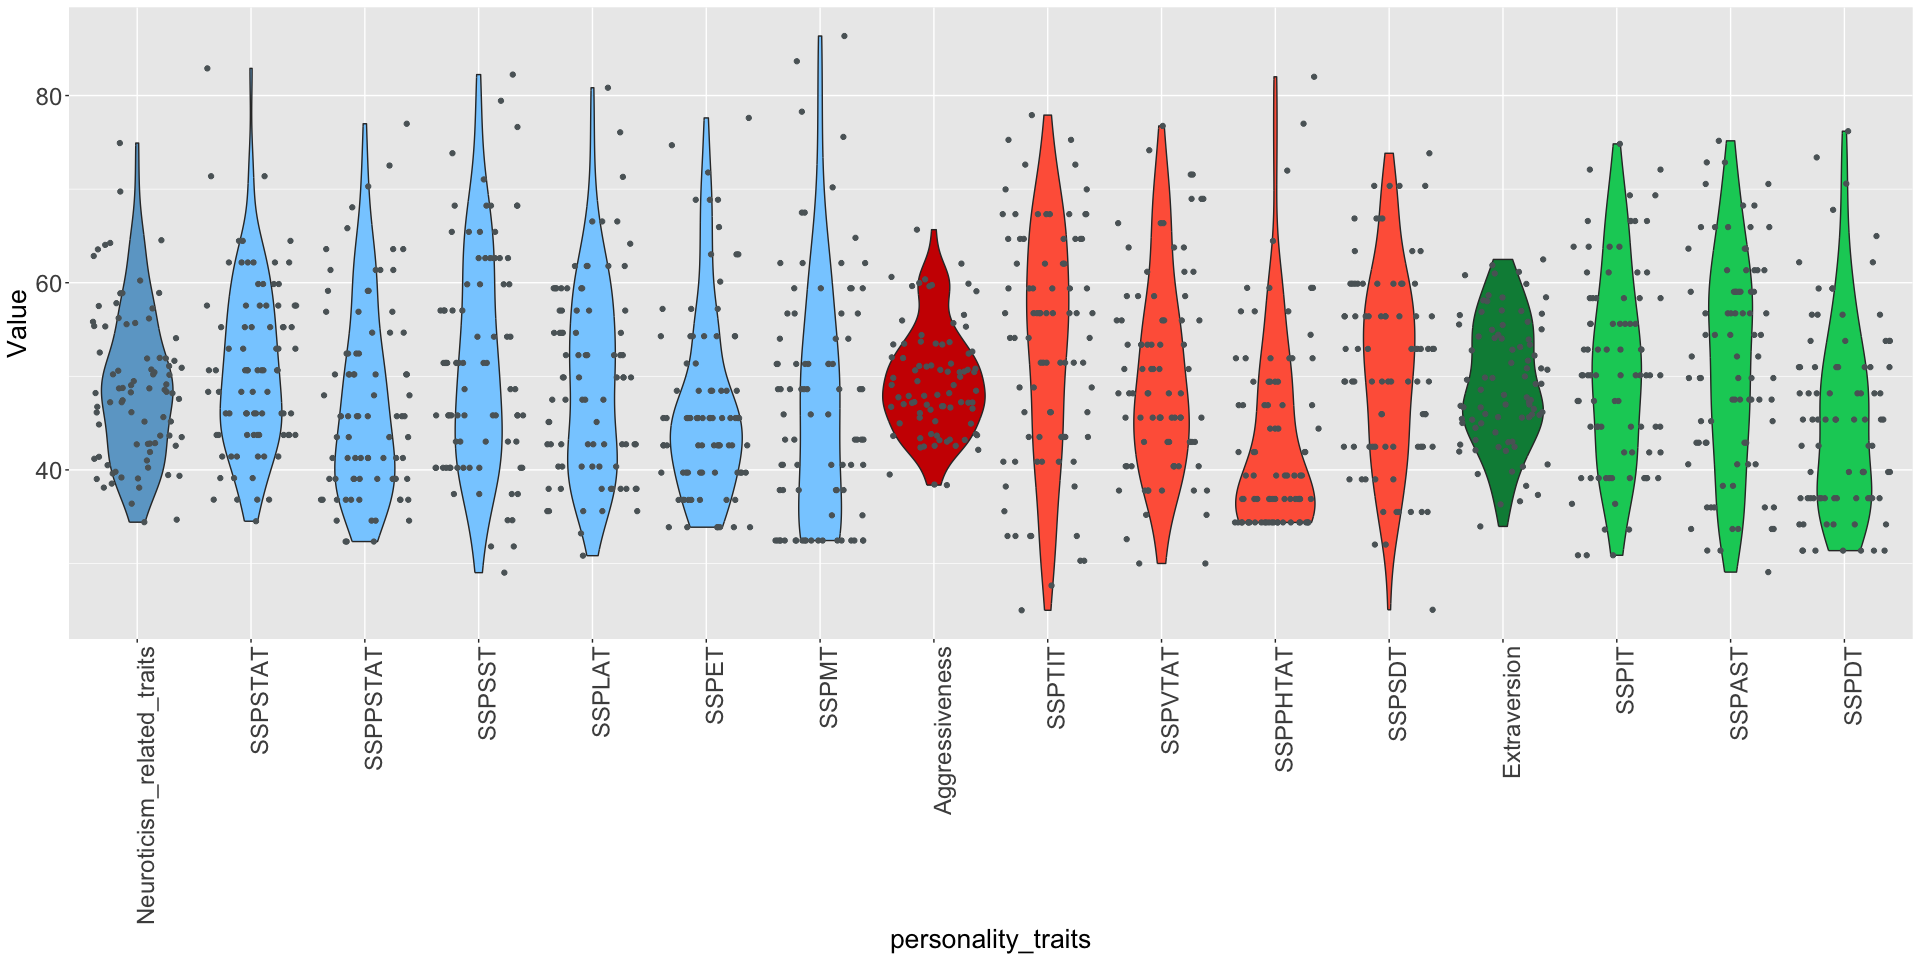
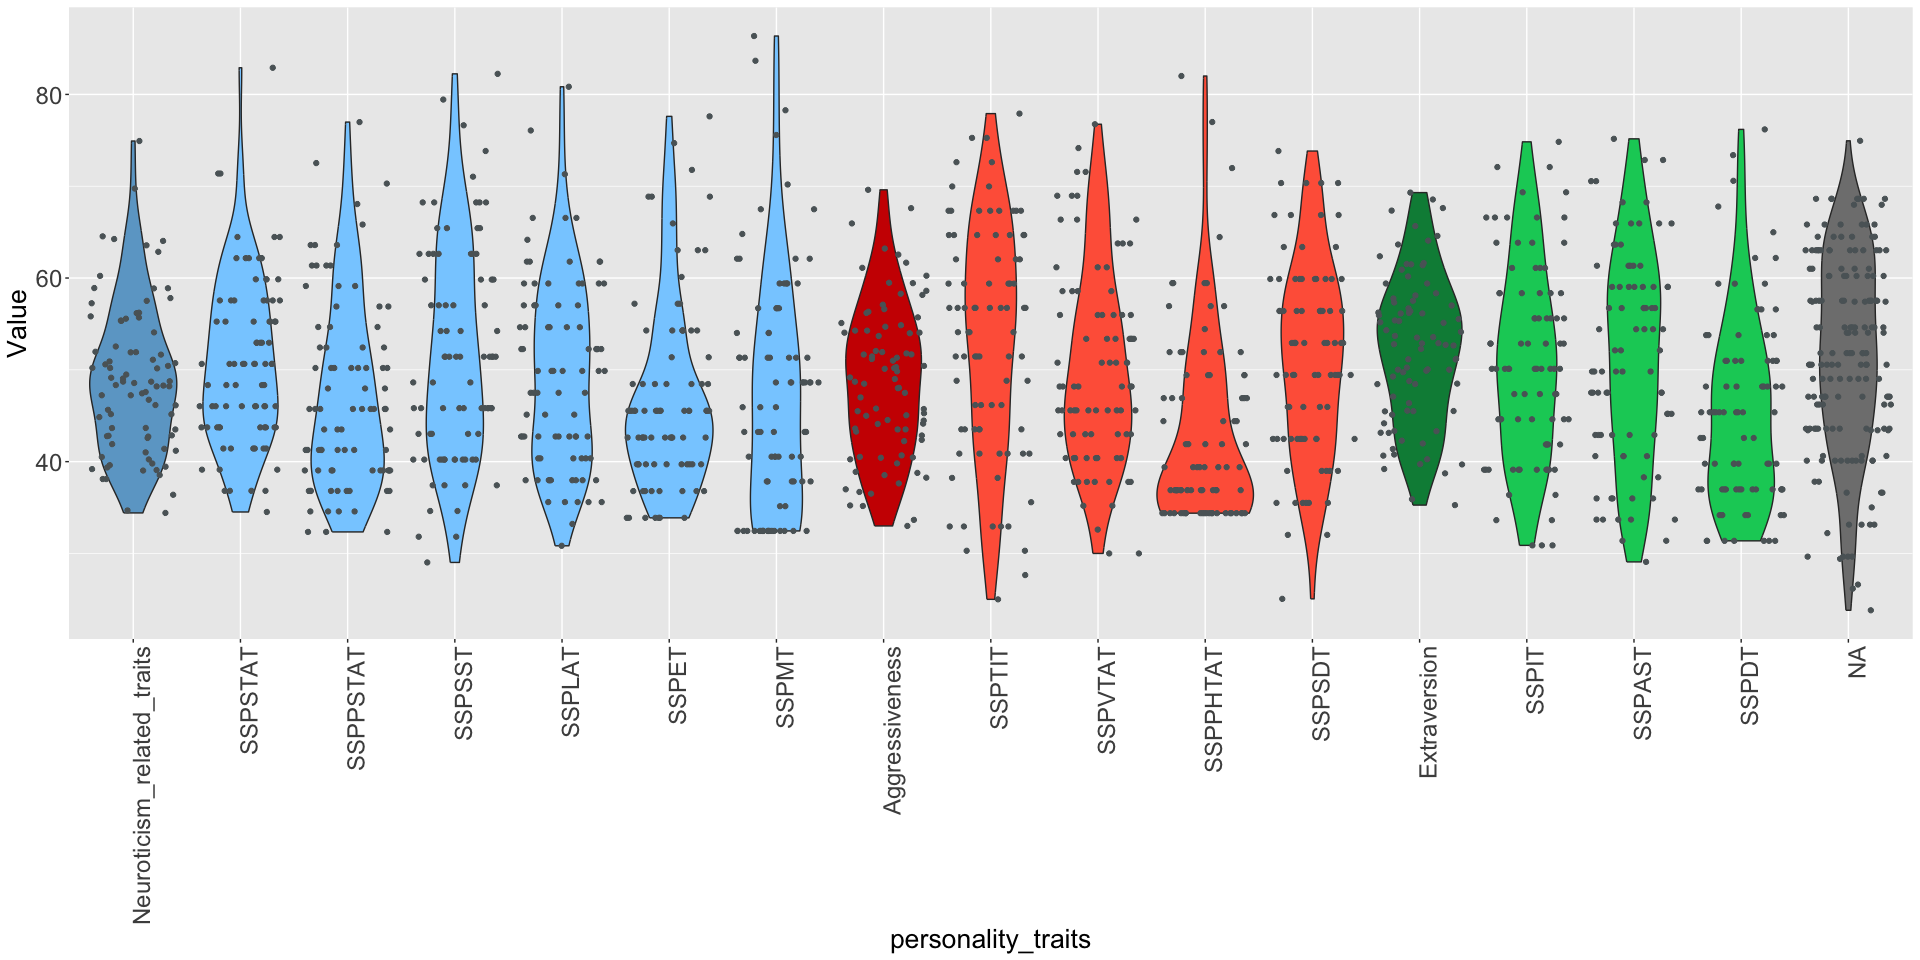
Changed normale values with reversed ones where required

diff --git a/Projects/elbue/Davidprntz.md b/Projects/elbue/Davidprntz.md
@@ -18,7 +18,9 @@
       filter(grepl("^ASMR021_", Subject)) %>% # Filter rows that start with "ASMR021_"
       mutate(Subject = as.integer(gsub("ASMR021_", "", Subject))) %>%  # Extract just the number part
       select(-Sex) %>%  # Remove the Sex column
-      drop_na()  # Remove rows with any missing data
+      drop_na() %>% # Remove rows with any missing data
+     mutate(SSPDT_R = 100-SSPDT) %>%
+     mutate(SSPSDT_R = 100-SSPSDT)
 
     library(dplyr)
 
@@ -30,8 +32,8 @@
 
     survey_clean <- survey_clean %>% 
       mutate(Neuroticism_related_traits = rowMeans(select(., SSPSTAT, SSPPSTAT, SSPSST,SSPLAT,SSPET,SSPMT), na.rm = TRUE)) %>%
-      mutate(Aggressiveness = rowMeans(select(., SSPTIT, SSPVTAT, SSPPHTAT,SSPSDT), na.rm = TRUE)) %>% #SSPSDT is normal not reversed, could not find the reversed value in the dataset and there is no explanation how to calculate it
-      mutate(Extraversion = rowMeans(select(., SSPIT, SSPAST, SSPDT), na.rm = TRUE))  #SSPDT is normal not reversed, could not find the reversed value in the dataset and there is no explanation how to calculate it
+      mutate(Aggressiveness = rowMeans(select(., SSPTIT, SSPVTAT, SSPPHTAT,SSPSDT_R), na.rm = TRUE)) %>% 
+      mutate(Extraversion = rowMeans(select(., SSPIT, SSPAST, SSPDT_R), na.rm = TRUE))  
 
     #Data Visualization Goals violin plots
     survey_clean_PT <- survey_clean %>% select(-c(1:113))
